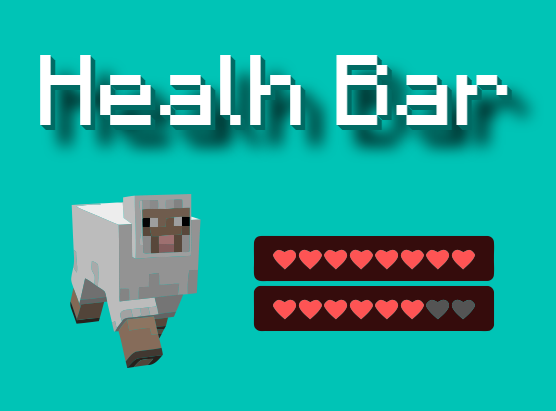
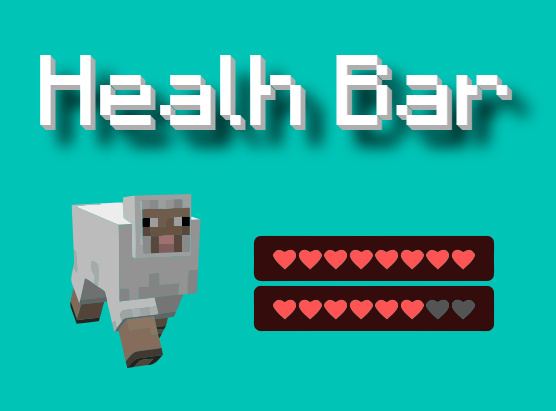
feat: add numeric type of life in the display

diff --git a/scripts/main.js b/scripts/main.js
@@ -1,0 +1,100 @@
+/**
+ *
+ * @author Lete114
+ * @description Display the health status of the entity
+ * @license GPL-2.0
+ */
+
+import { world, system, Player, Entity, DynamicPropertiesDefinition, MinecraftEntityTypes } from '@minecraft/server'
+
+const PH = 'Hit Point'
+
+world.afterEvents.worldInitialize.subscribe((e) => {
+  const dpd = new DynamicPropertiesDefinition()
+  dpd.defineBoolean(PH)
+  e.propertyRegistry.registerEntityTypeDynamicProperties(dpd, MinecraftEntityTypes.player)
+})
+
+world.beforeEvents.chatSend.subscribe(async (e) => {
+  const msg = e.message
+  if (/#PH#/i.test(msg)) {
+    e.cancel = true
+    const player = e.sender
+    const ph = player.getDynamicProperty(PH)
+    player.setDynamicProperty(PH, !ph)
+  }
+})
+
+system.runInterval(() => {
+  world.getAllPlayers().forEach((player) => {
+    const entities = player.getEntitiesFromViewDirection()
+    entities.forEach((entity) => {
+      showHealth(player, entity)
+    })
+  })
+})
+
+world.afterEvents.entityHurt.subscribe((e) => {
+  showHealth(e.damageSource.damagingEntity, e.hurtEntity)
+})
+
+/**
+ *
+ * @param {Player} player
+ * @param {Entity} entity
+ */
+function showHealth(player, entity) {
+  try {
+    const health = entity.getComponent('health')
+
+    if (!health?.value) return
+
+    /** @type {number} */
+    const maxHealth = health.value
+    /** @type {number} */
+    const currentHealth = health.current
+
+    const togglePHType = player.getDynamicProperty(PH)
+    const PHBar = togglePHType ? `§a${maxHealth} §r/ §c${currentHealth}` : getHeartBar(maxHealth, currentHealth)
+
+    player.onScreenDisplay.setActionBar(PHBar)
+  } catch (error) {
+    console.log(error)
+  }
+}
+
+/**
+ *
+ * @param {number} maxHealth
+ * @param {number} currentHealth
+ * @returns
+ */
+function getHeartBar(maxHealth, currentHealth) {
+  const heart = '\u2764'
+  const color = ['§c', '§8']
+
+  const currentHeart = color[0] + heart.repeat(currentHealth)
+  const injured = color[1] + heart.repeat(maxHealth - currentHealth)
+  const text = currentHeart + injured
+
+  let result = '',
+    _tmp = ''
+
+  for (let i = 0; i < text.length; i++) {
+    const char = text[i]
+    _tmp += char
+
+    // Every 20 hearts for a row of blood
+    const _reg = new RegExp(heart, 'g')
+    if (_tmp.match(_reg)?.length === 20) {
+      result += _tmp + '\n'
+      // Clear to recount the next row of blood
+      _tmp = ''
+    } else if (i === text.length - 1) {
+      // If the final 20 hearts are not met then directly splice
+      result += _tmp
+    }
+  }
+  const reg = new RegExp(color[1] + '$', 'g')
+  return '§c' + result.replace(reg, '').trim()
+}

diff --git a/logo/index.html b/logo/index.html
@@ -19,6 +19,7 @@
   }
 
   .container {
+    padding: 40px;
     display: flex;
     flex-direction: column;
     align-items: center;
@@ -32,7 +33,7 @@
 
     font-size: 80;
     z-index: 100;
-    text-shadow: 1px 1px #006b64, 2px 2px #006b64, 3px 3px #006b64, 4px 4px #006b64, 5px 5px #006b64,
+    text-shadow: 1px 1px #aeaeae, 2px 2px #aeaeae, 3px 3px #aeaeae, 4px 4px #aeaeae, 5px 5px #aeaeae,
       20px 20px 16px #000;
   }
   .imgs {

diff --git a/README.md b/README.md
@@ -1,4 +1,4 @@
-# Healh Bar
+# Hit Point
 
 Display the health status of the entity
 
@@ -8,9 +8,21 @@ Display the health status of the entity
 
 ## Download
 
+To download, you need to go to the GitHub repository [releases](https://github.com/mcbe-mods/Hit-Point/releases)
+
+## Usage
+
 > required enable Beta API
 
-To download, you need to go to the GitHub repository [releases](https://github.com/mcbe-mods/Healh-Bar/releases)
+Alignment Biology
+
+![](screens/1.png)
+
+You can toggle the display by typing `#PH#` in the chat box (case-insensitive with `#ph#` is fine), Each player's display is independent, so that all players will not switch because other players have switched their displays.
+
+![](screens/2.png)
+
+
 
 ## Debugger
 
